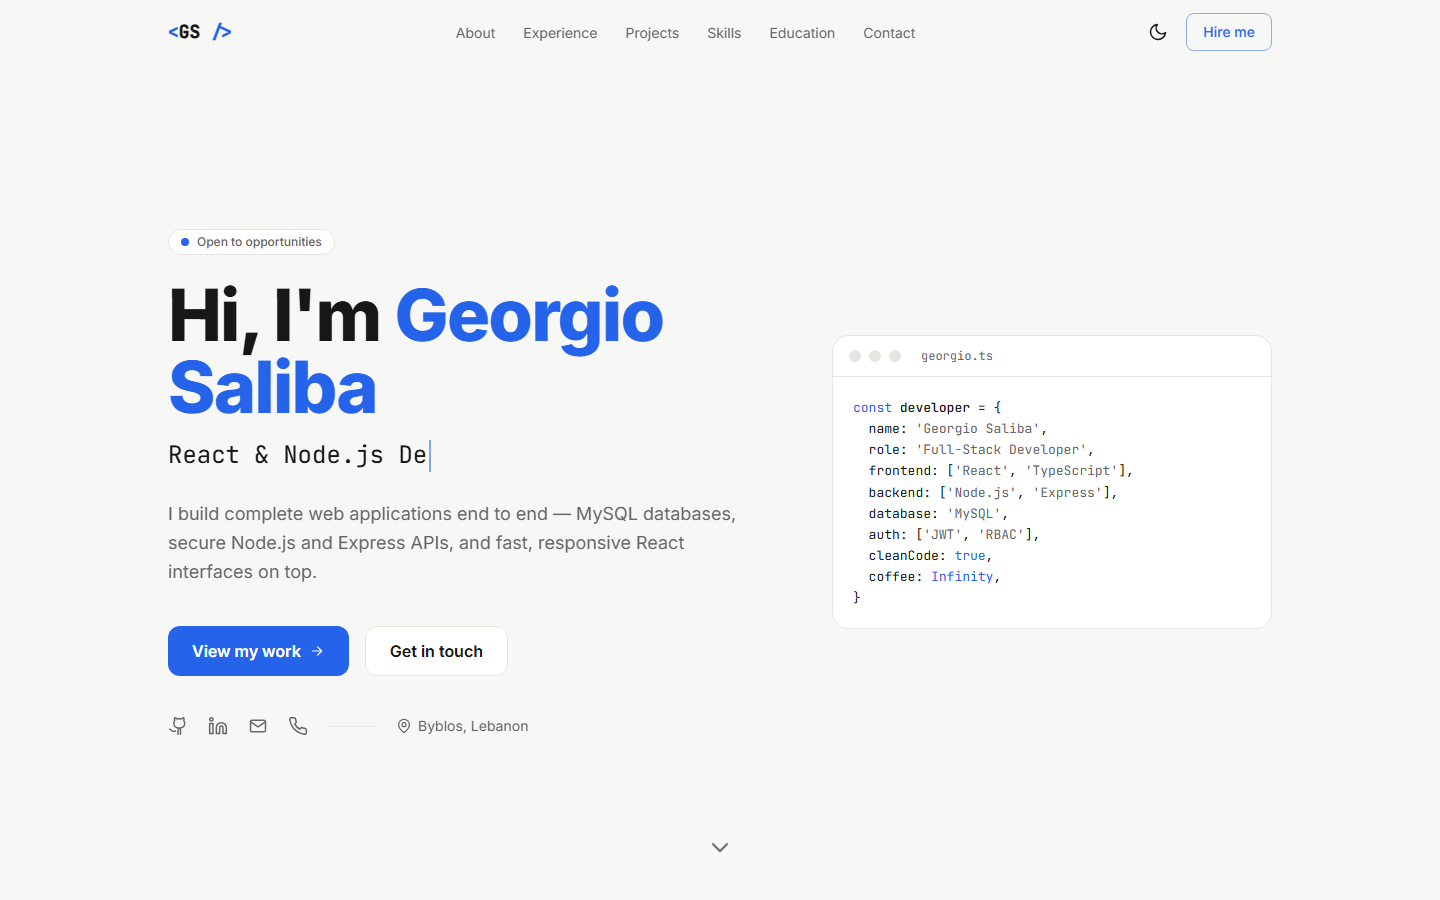
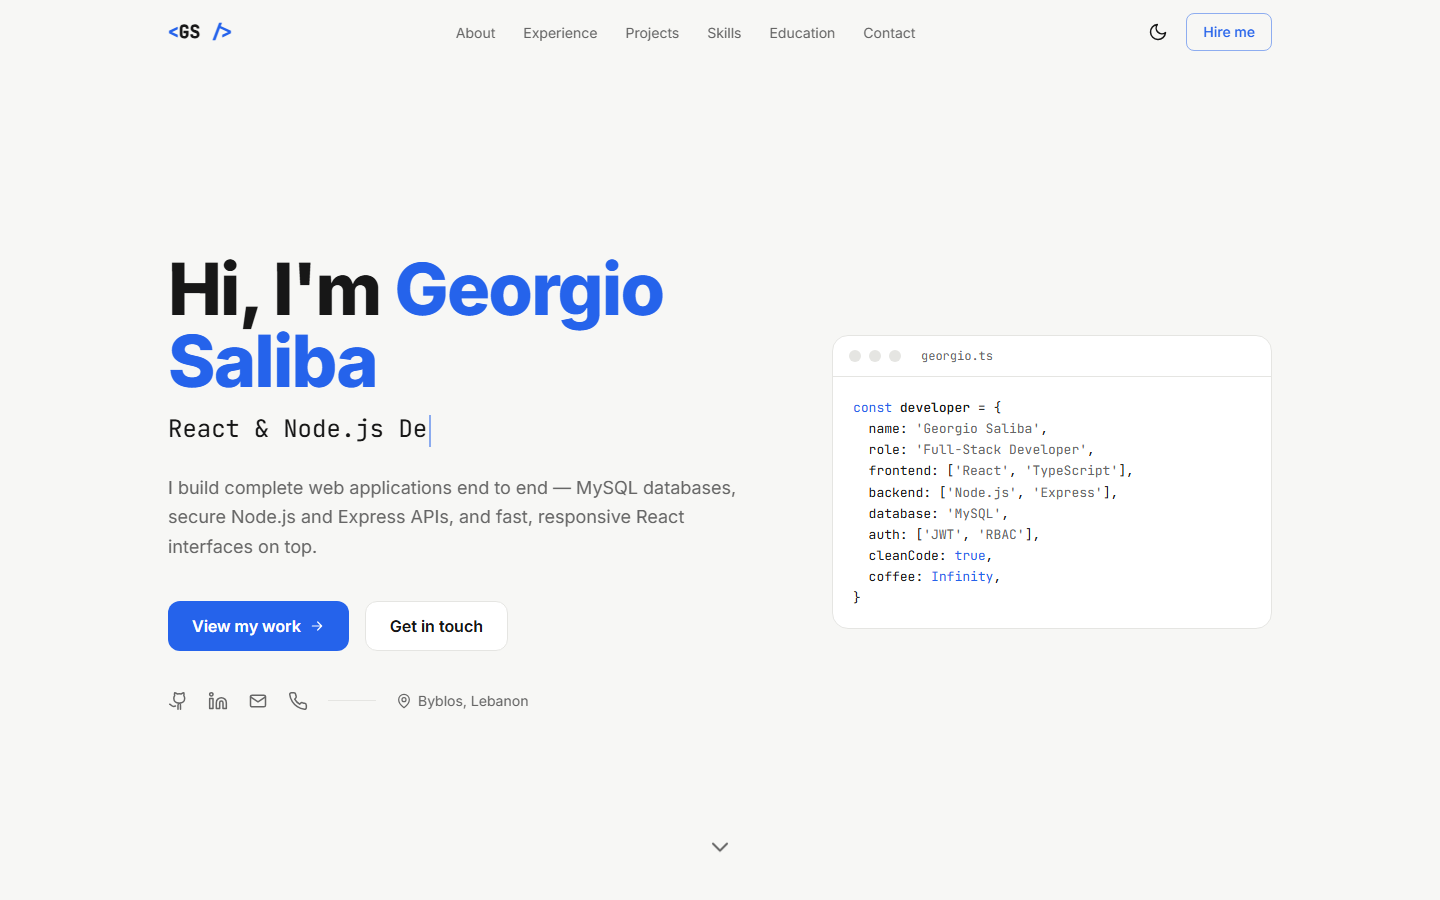
Remove 'Open to opportunities' badge from hero
Also refresh README screenshots.

Changed region(s): [[0.0938, 0.2489, 0.5, 0.8089], [0.2812, 0.7778, 0.375, 0.8089]]

diff --git a/src/components/Hero.jsx b/src/components/Hero.jsx
@@ -37,18 +37,10 @@ export default function Hero() {
     <section id="home" className="relative flex min-h-screen items-center overflow-hidden pt-16">
       <div className="relative mx-auto grid w-full max-w-6xl items-center gap-12 px-4 py-20 sm:px-6 lg:grid-cols-[1.4fr_1fr]">
         <div>
-          <div
-            data-aos="fade-down"
-            className="inline-flex items-center gap-2 rounded-full border border-line bg-surface px-3 py-1 text-xs font-medium text-muted"
-          >
-            <span className="size-2 rounded-full bg-accent" />
-            Open to opportunities
-          </div>
-
           <h1
             data-aos="fade-up"
             data-aos-delay="100"
-            className="mt-6 text-4xl font-extrabold tracking-tight text-fg sm:text-6xl lg:text-7xl"
+            className="text-4xl font-extrabold tracking-tight text-fg sm:text-6xl lg:text-7xl"
           >
             Hi, I'm <span className="text-accent">{profile.name}</span>
           </h1>
